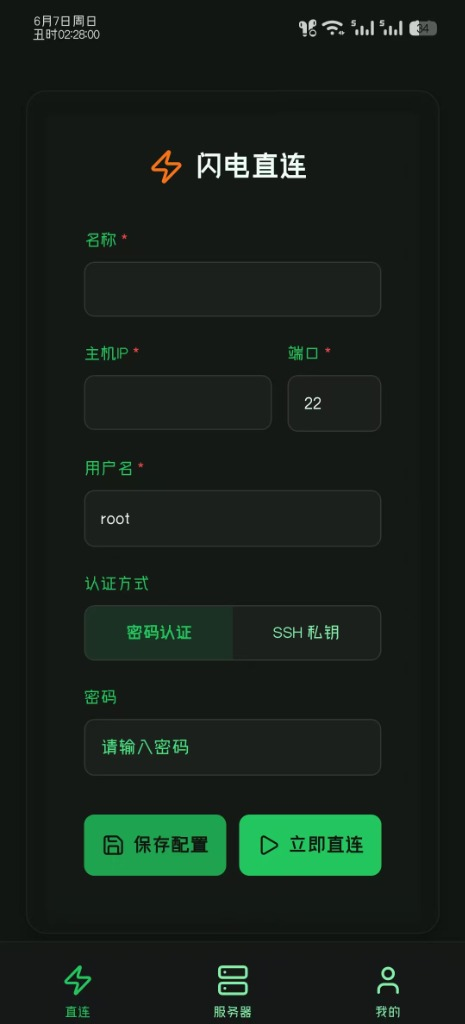
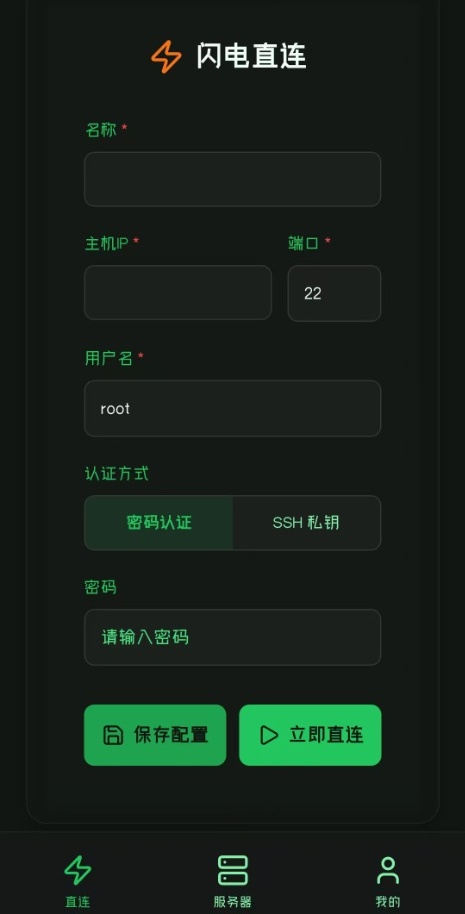
docs: Update premium README and UI showcases

diff --git a/tools/crop_android.py b/tools/crop_android.py
@@ -1,0 +1,25 @@
+import os
+from PIL import Image
+
+# 文件路径
+assets_img = r"C:\Users\Angus\Desktop\Antigravity\SSH\Source_Codes\Aether-Source\AetherSSH-Go\assets\android_quick_connect.jpg"
+backup_img = r"c:\Users\Angus\Desktop\Antigravity\SSH\软件图片\android_quick_connect.jpg"
+
+def remove_status_bar(img_path):
+    if not os.path.exists(img_path):
+        print(f"File not found: {img_path}")
+        return
+    
+    with Image.open(img_path) as img:
+        width, height = img.size
+        # 裁剪顶部约 110 像素（一般状态栏在 100px 以内）
+        top_crop = 110
+        cropped_img = img.crop((0, top_crop, width, height))
+        # 保存时使用高质量
+        cropped_img.save(img_path, quality=95)
+        print(f"Successfully cropped status bar from {img_path}")
+
+# 处理 assets 下的图
+remove_status_bar(assets_img)
+# 顺便处理备份目录下的图，防止下次拷错
+remove_status_bar(backup_img)